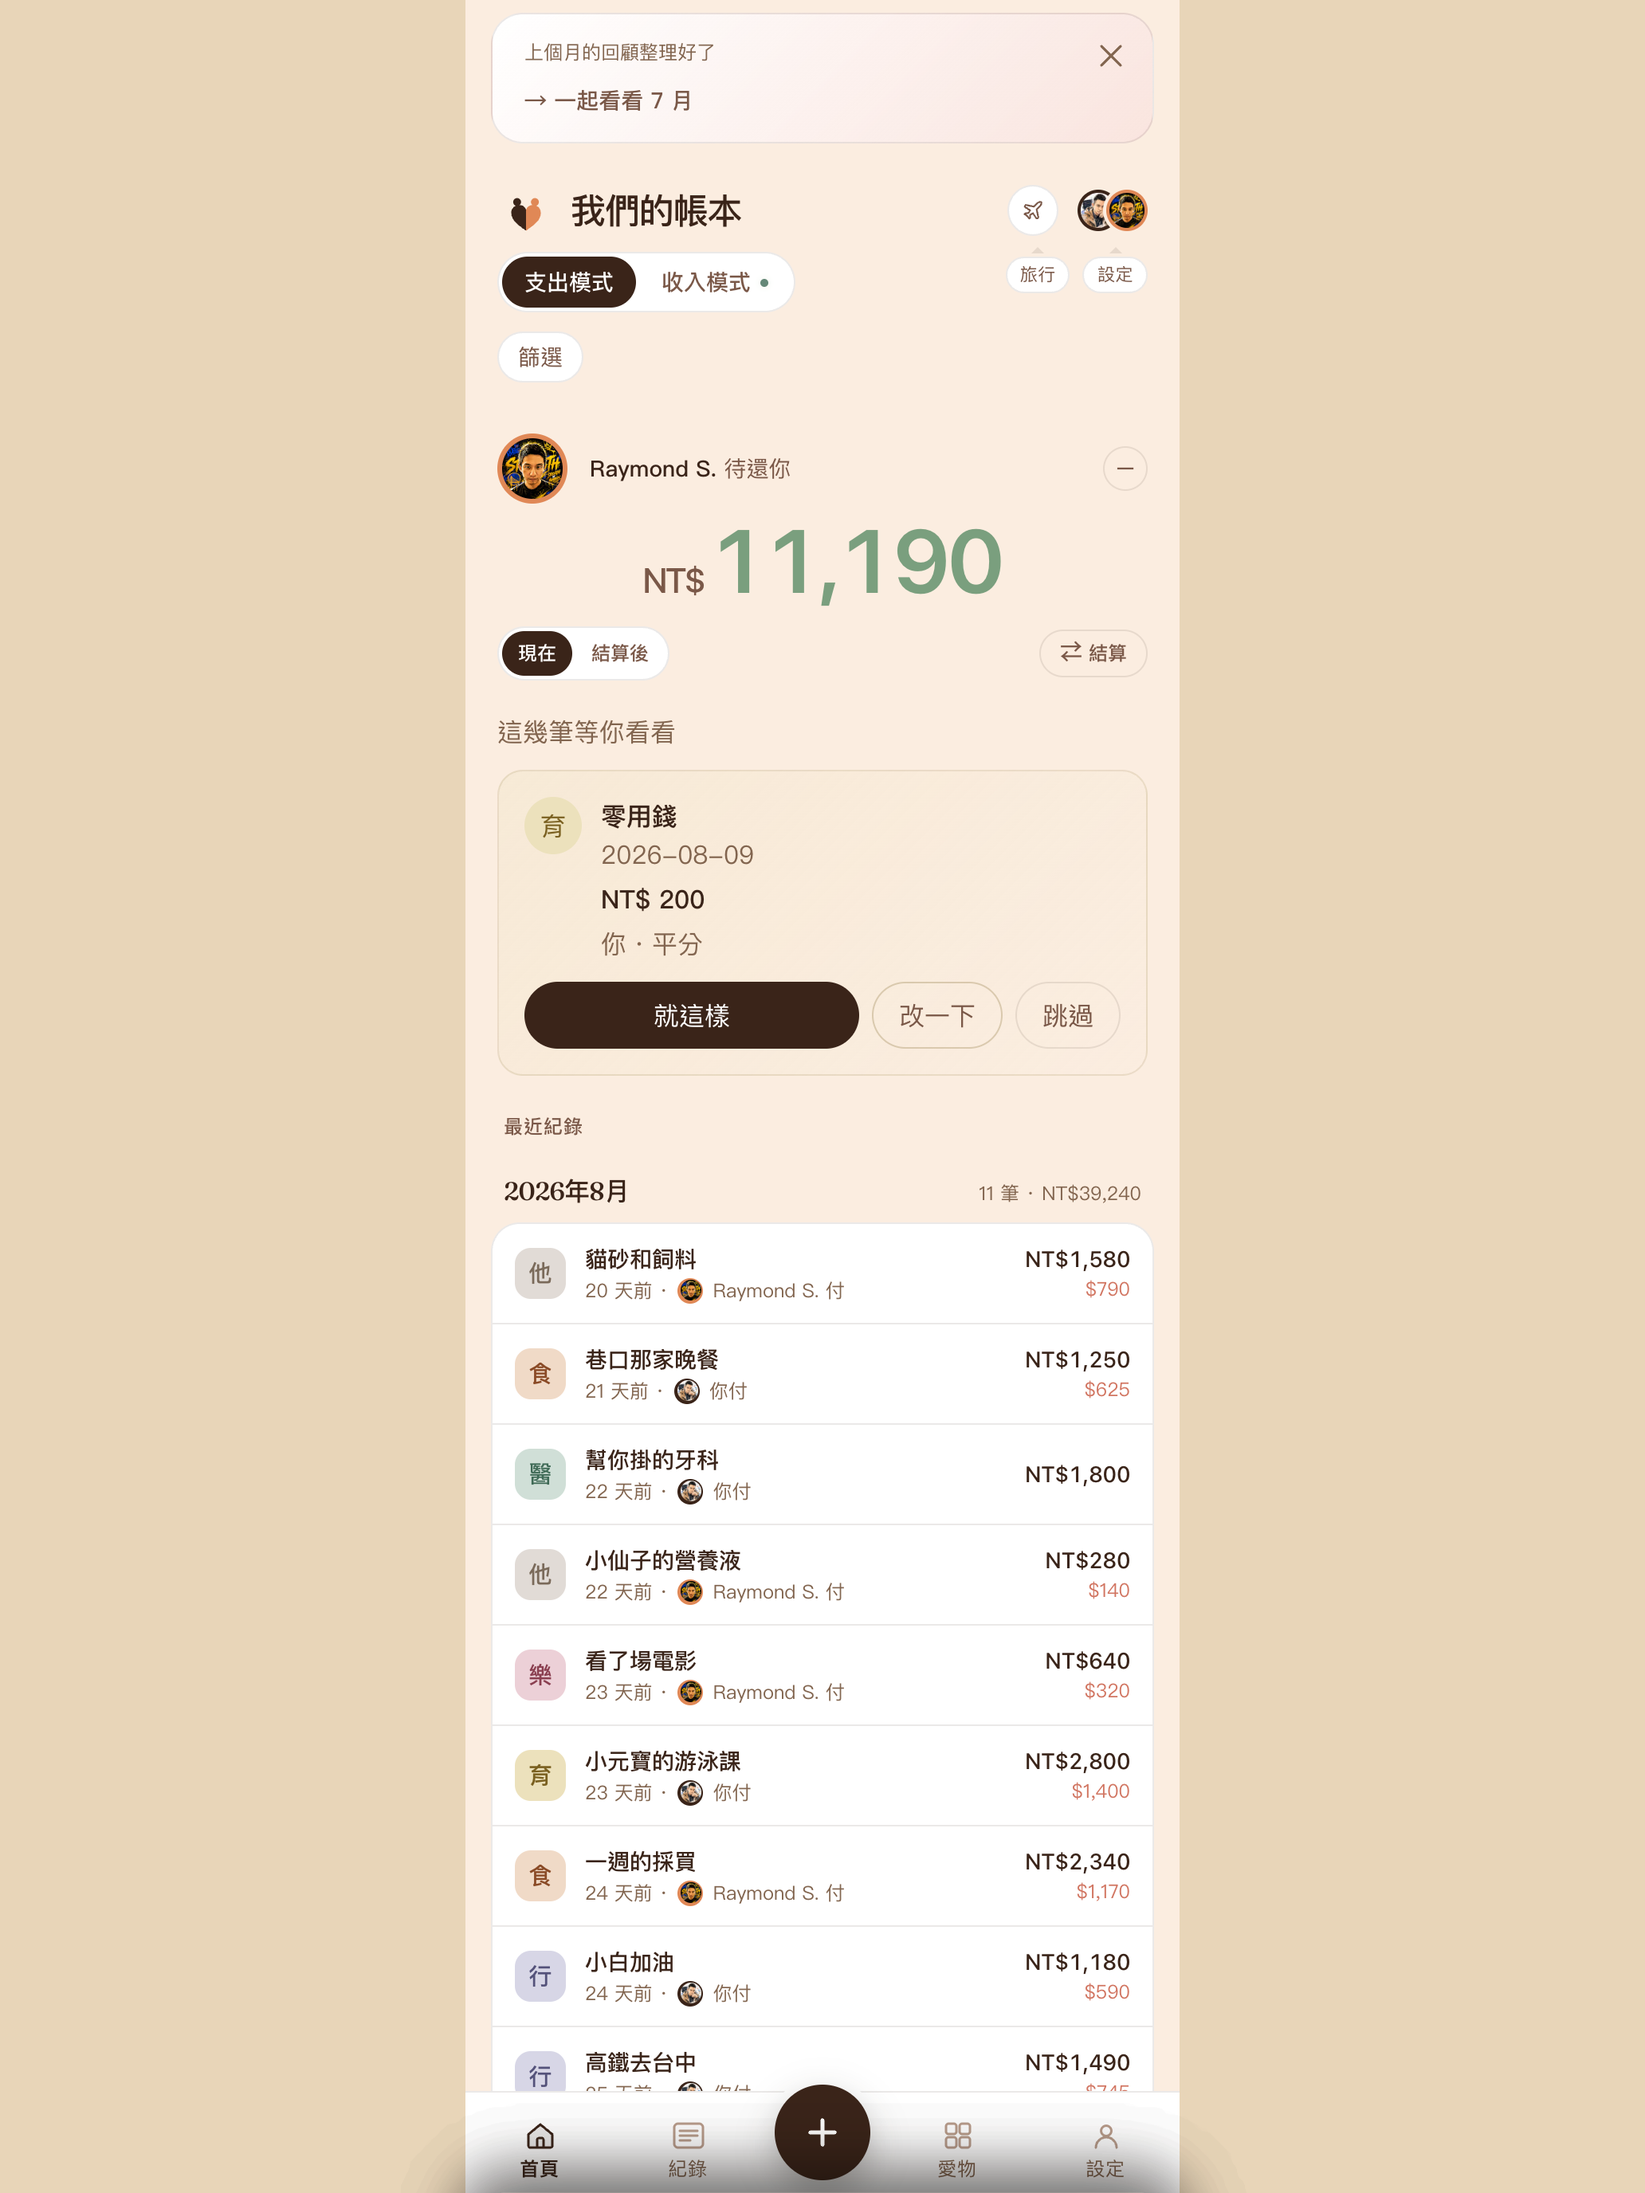
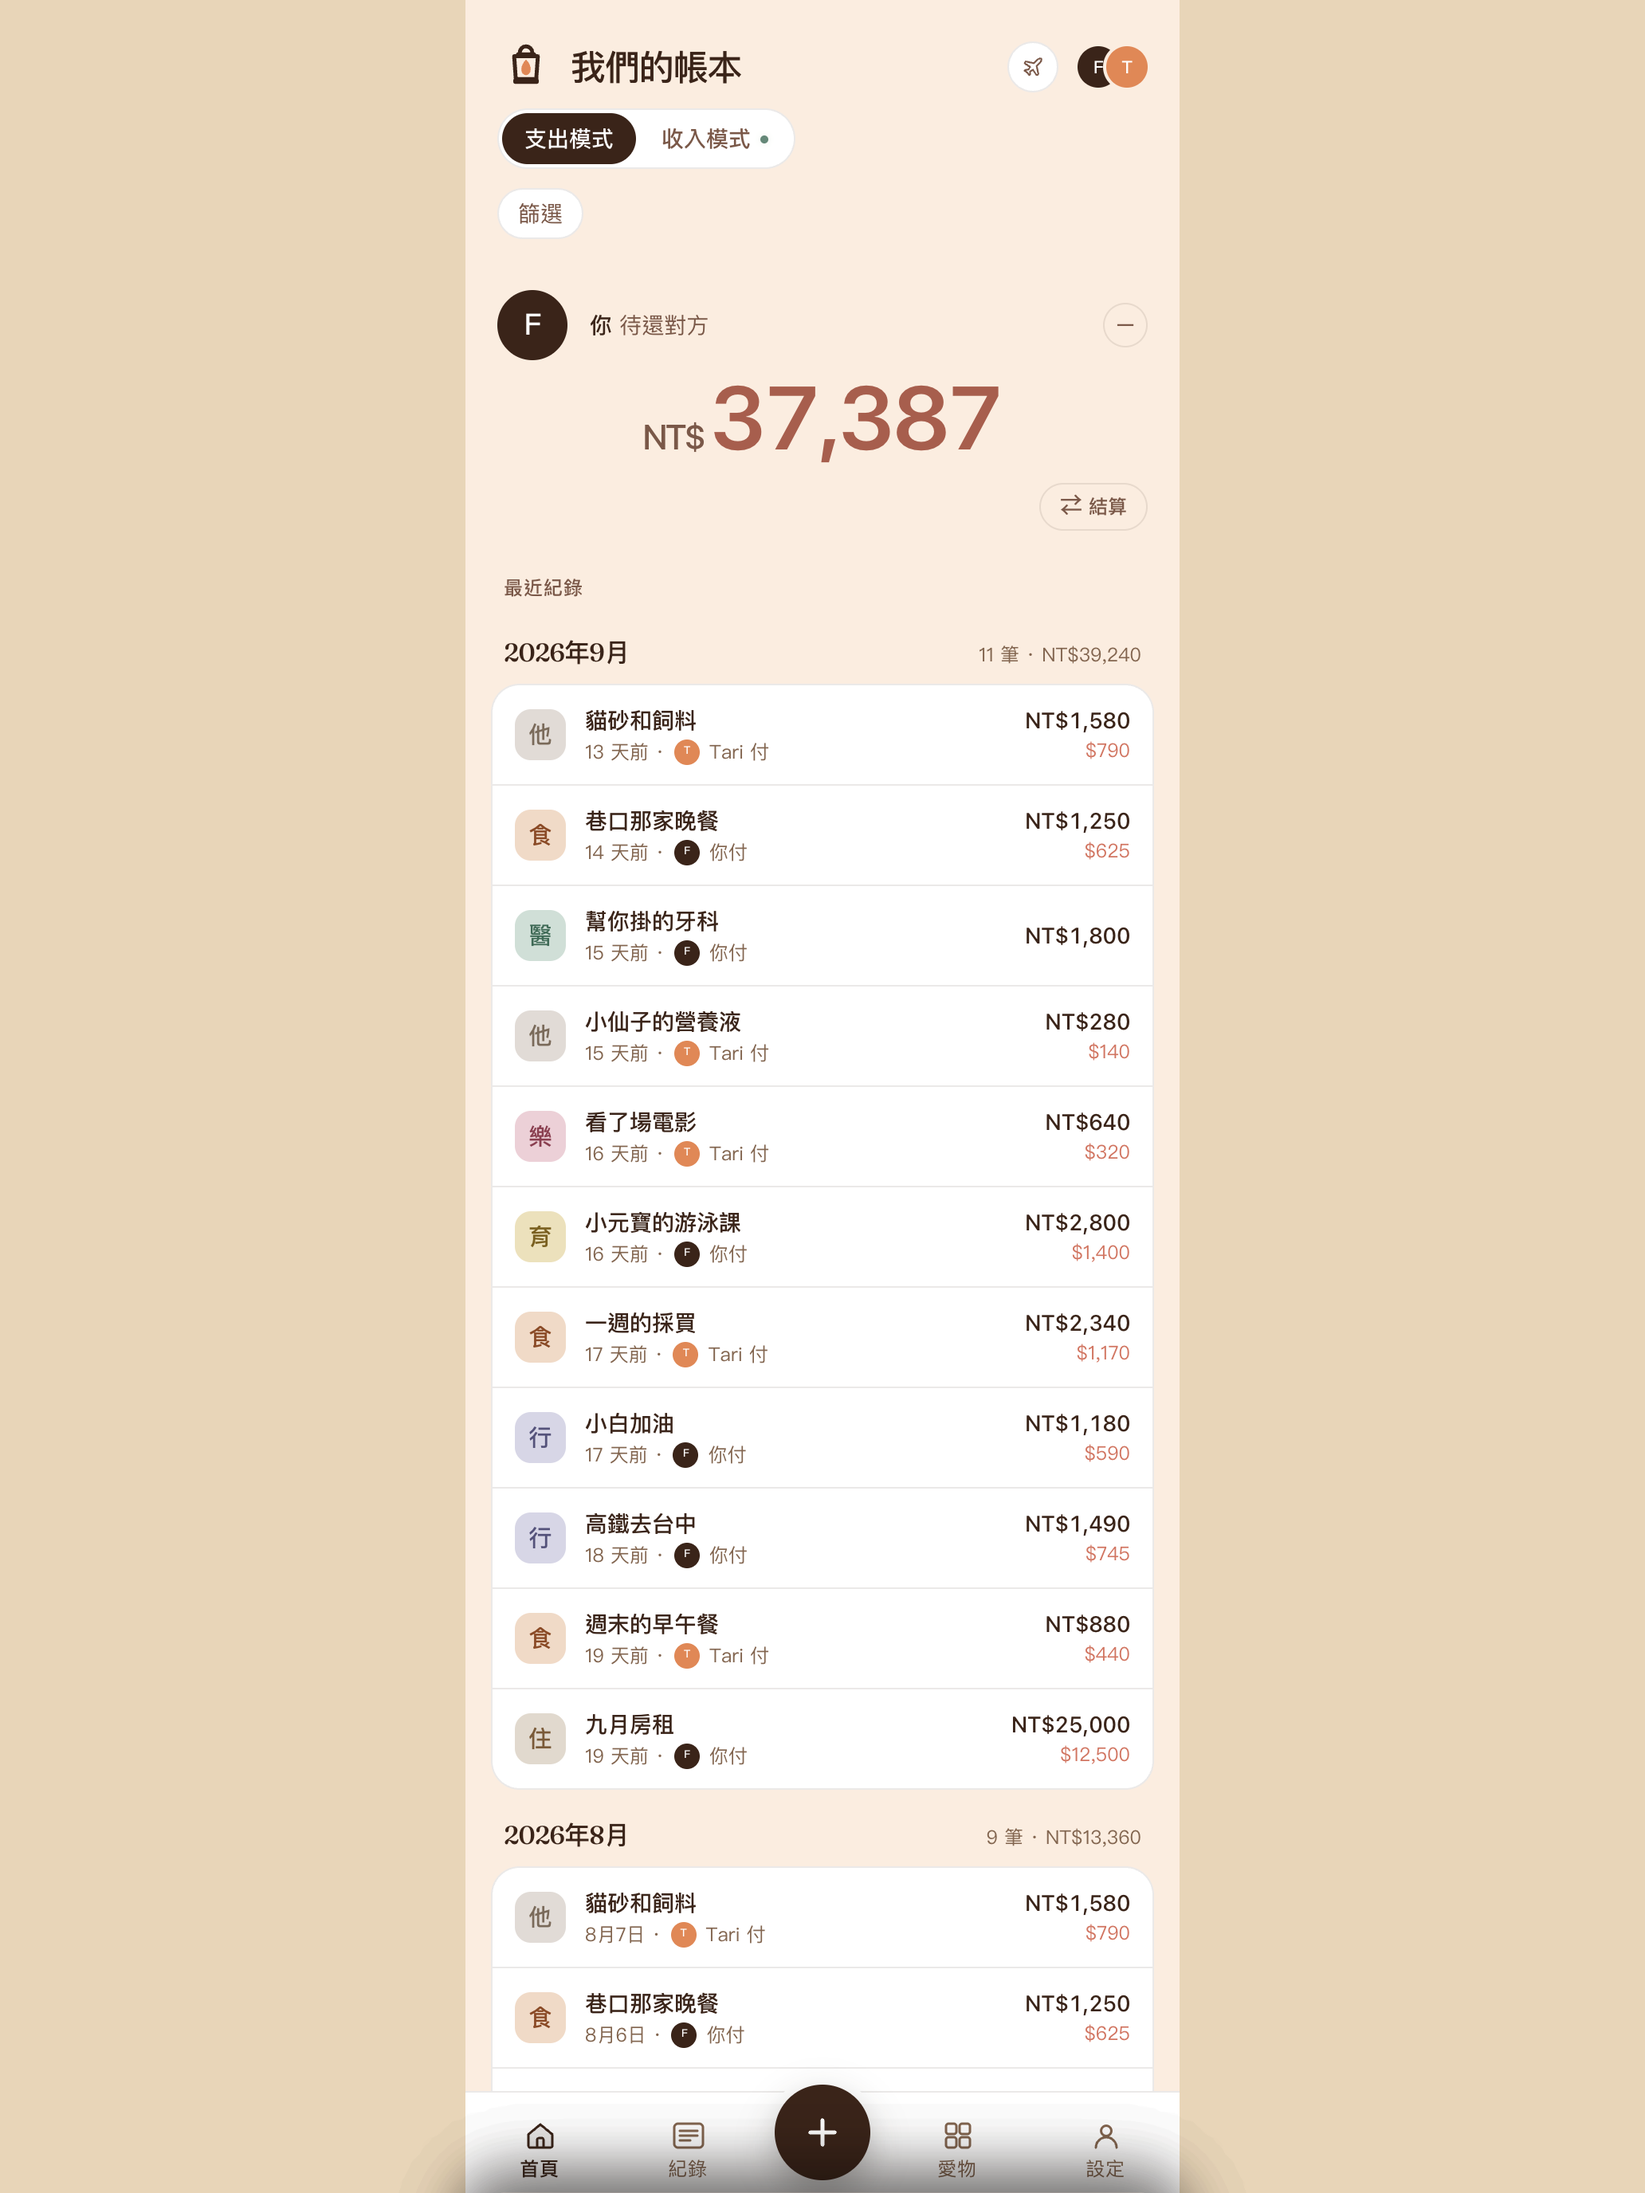
chore(store): 用乾淨的 dev 帳本重截 16 張截圖，並產出五張故事圖
截圖（docs/store-assets/screenshots/，四種尺寸各 4 張）：
- 頭像改用首字圓圈 F／T：dev 兩位 profile 設 avatar_hidden（#1328 的欄位），不再有真人照片
- 示範名稱改為 Futa／Tari；9 月補上 11 筆示範紀錄、日期落在近一週，定期提案先跳過
- 不再有 Next.js dev 浮標

故事圖（docs/store-assets/story/，zh-TW iPhone 6.7"）：
- scripts/og/store-screens.html 依新版面調整三處裁切，第 4 張天數對齊實際資料（285 天）
- scripts/og/capture-screens.mjs 新增 --connect=<CDP endpoint>，可連上已登入的 Chrome，
  deviceScaleFactor 仍由 CDP 覆寫，輸出像素精確

Changed region(s): [[0.2791, 0.0, 0.7132, 1.0], [0.6202, 0.0, 0.7132, 0.1562], [0.6512, 0.2188, 0.6822, 0.25]]

diff --git a/scripts/og/store-screens.html b/scripts/og/store-screens.html
@@ -141,11 +141,11 @@
      * which still carries the dev-overlay "N" badge in the 2026-08 batch. */
     const frames = {
       1: { scene: '../../public/illustration-hero.png', hero: true },
-      2: { shot: '01-dashboard-ios-6.7.png', crop: [0, 790, 1290, 1300],
+      2: { shot: '01-dashboard-ios-6.7.png', crop: [0, 500, 1290, 1010],
            scene: '../../docs/store-assets/illustrations/story-2.png', pos: '50% 60%', brief: '巷口那家晚餐。兩人並肩坐在麵店吧台，一人拿手機結帳，另一人看著笑。頭頂一顆燈泡的暖光，窗外是雨後的巷子。' },
-      3: { shot: '01-dashboard-ios-6.7.png', crop: [50, 1450, 1240, 2170],
+      3: { shot: '01-dashboard-ios-6.7.png', crop: [50, 1180, 1240, 2030],
            scene: '../../docs/store-assets/illustrations/story-3.png', pos: '50% 55%', brief: '晚上的廚房。一人把超市袋子的東西收進冰箱，另一人靠在流理台邊用手機記一筆。桌上放著收據和一杯熱茶。' },
-      4: { shot: '04-assets-ios-6.7.png', crop: [50, 1530, 1240, 2230],
+      4: { shot: '04-assets-ios-6.7.png', crop: [50, 1440, 1240, 2230],
            scene: '../../docs/store-assets/illustrations/story-4.png', pos: '40% 18%', brief: '傍晚的客廳。窗台上一盆小仙子（多肉），柴犬麻糬趴在沙發腳邊，兩人的腳擱在同一張小凳上。斜斜的夕陽光。' },
       5: { shot: '03-trip-ios-6.7.png', crop: [50, 520, 1240, 1130],
            scene: '../../docs/store-assets/illustrations/story-5.png', pos: '50% 60%', brief: '旅行的回程。兩人拖著行李走出車站，行李箱上掛著御守，一人手上提著伴手禮。黃昏，路燈剛亮。' },
@@ -158,7 +158,7 @@
         1: { head: ['兩個人，', '<span class="lit">一本帳。</span>'], sub: '一起記，回頭看會很暖。' },
         2: { head: ['誰先付的，', '<span class="lit">不用再算。</span>'], sub: '每一筆都分好了。想結清的時候，點一下就好。' },
         3: { head: ['一起記下的，', '<span class="lit">都是日子。</span>'], sub: '晚餐、看牙、營養液，兩個人的日常都在這裡。' },
-        4: { head: ['小仙子陪了我們', '<span class="lit">241 天。</span>'], sub: '孩子、毛孩、植物，家裡的每一個都記得。' },
+        4: { head: ['小仙子陪了我們', '<span class="lit">285 天。</span>'], sub: '孩子、毛孩、植物，家裡的每一個都記得。' },
         5: { head: ['大阪七天，', '<span class="lit">回家就結清。</span>'], sub: '日圓、台幣照常記，旅行的帳自己分開算。' },
       },
     }
